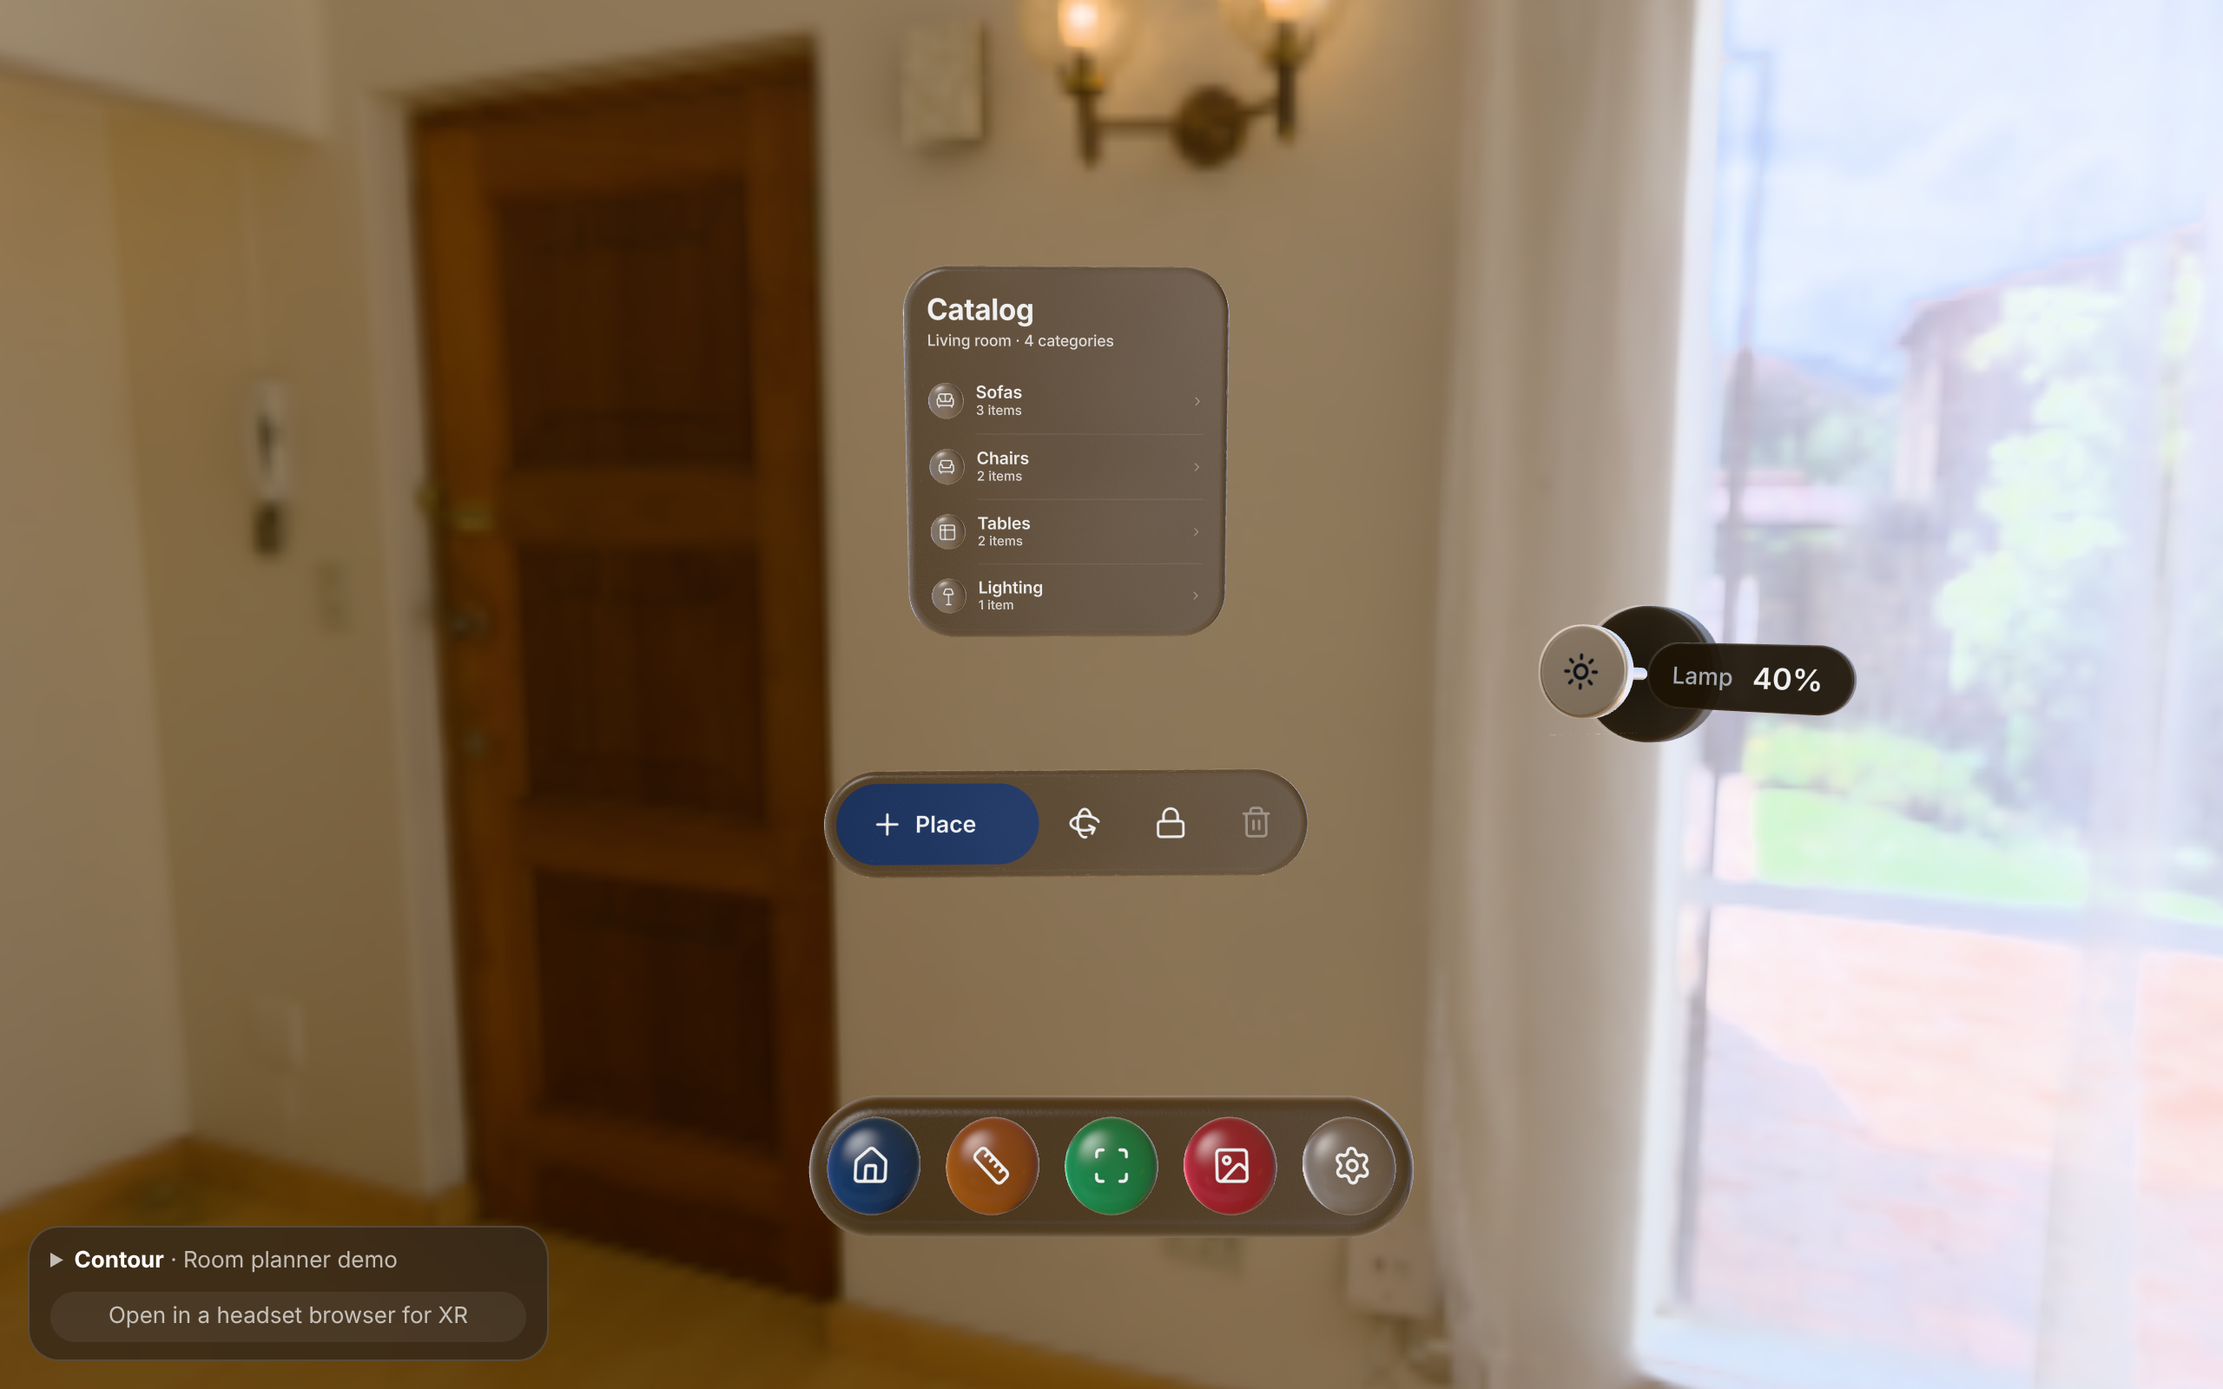
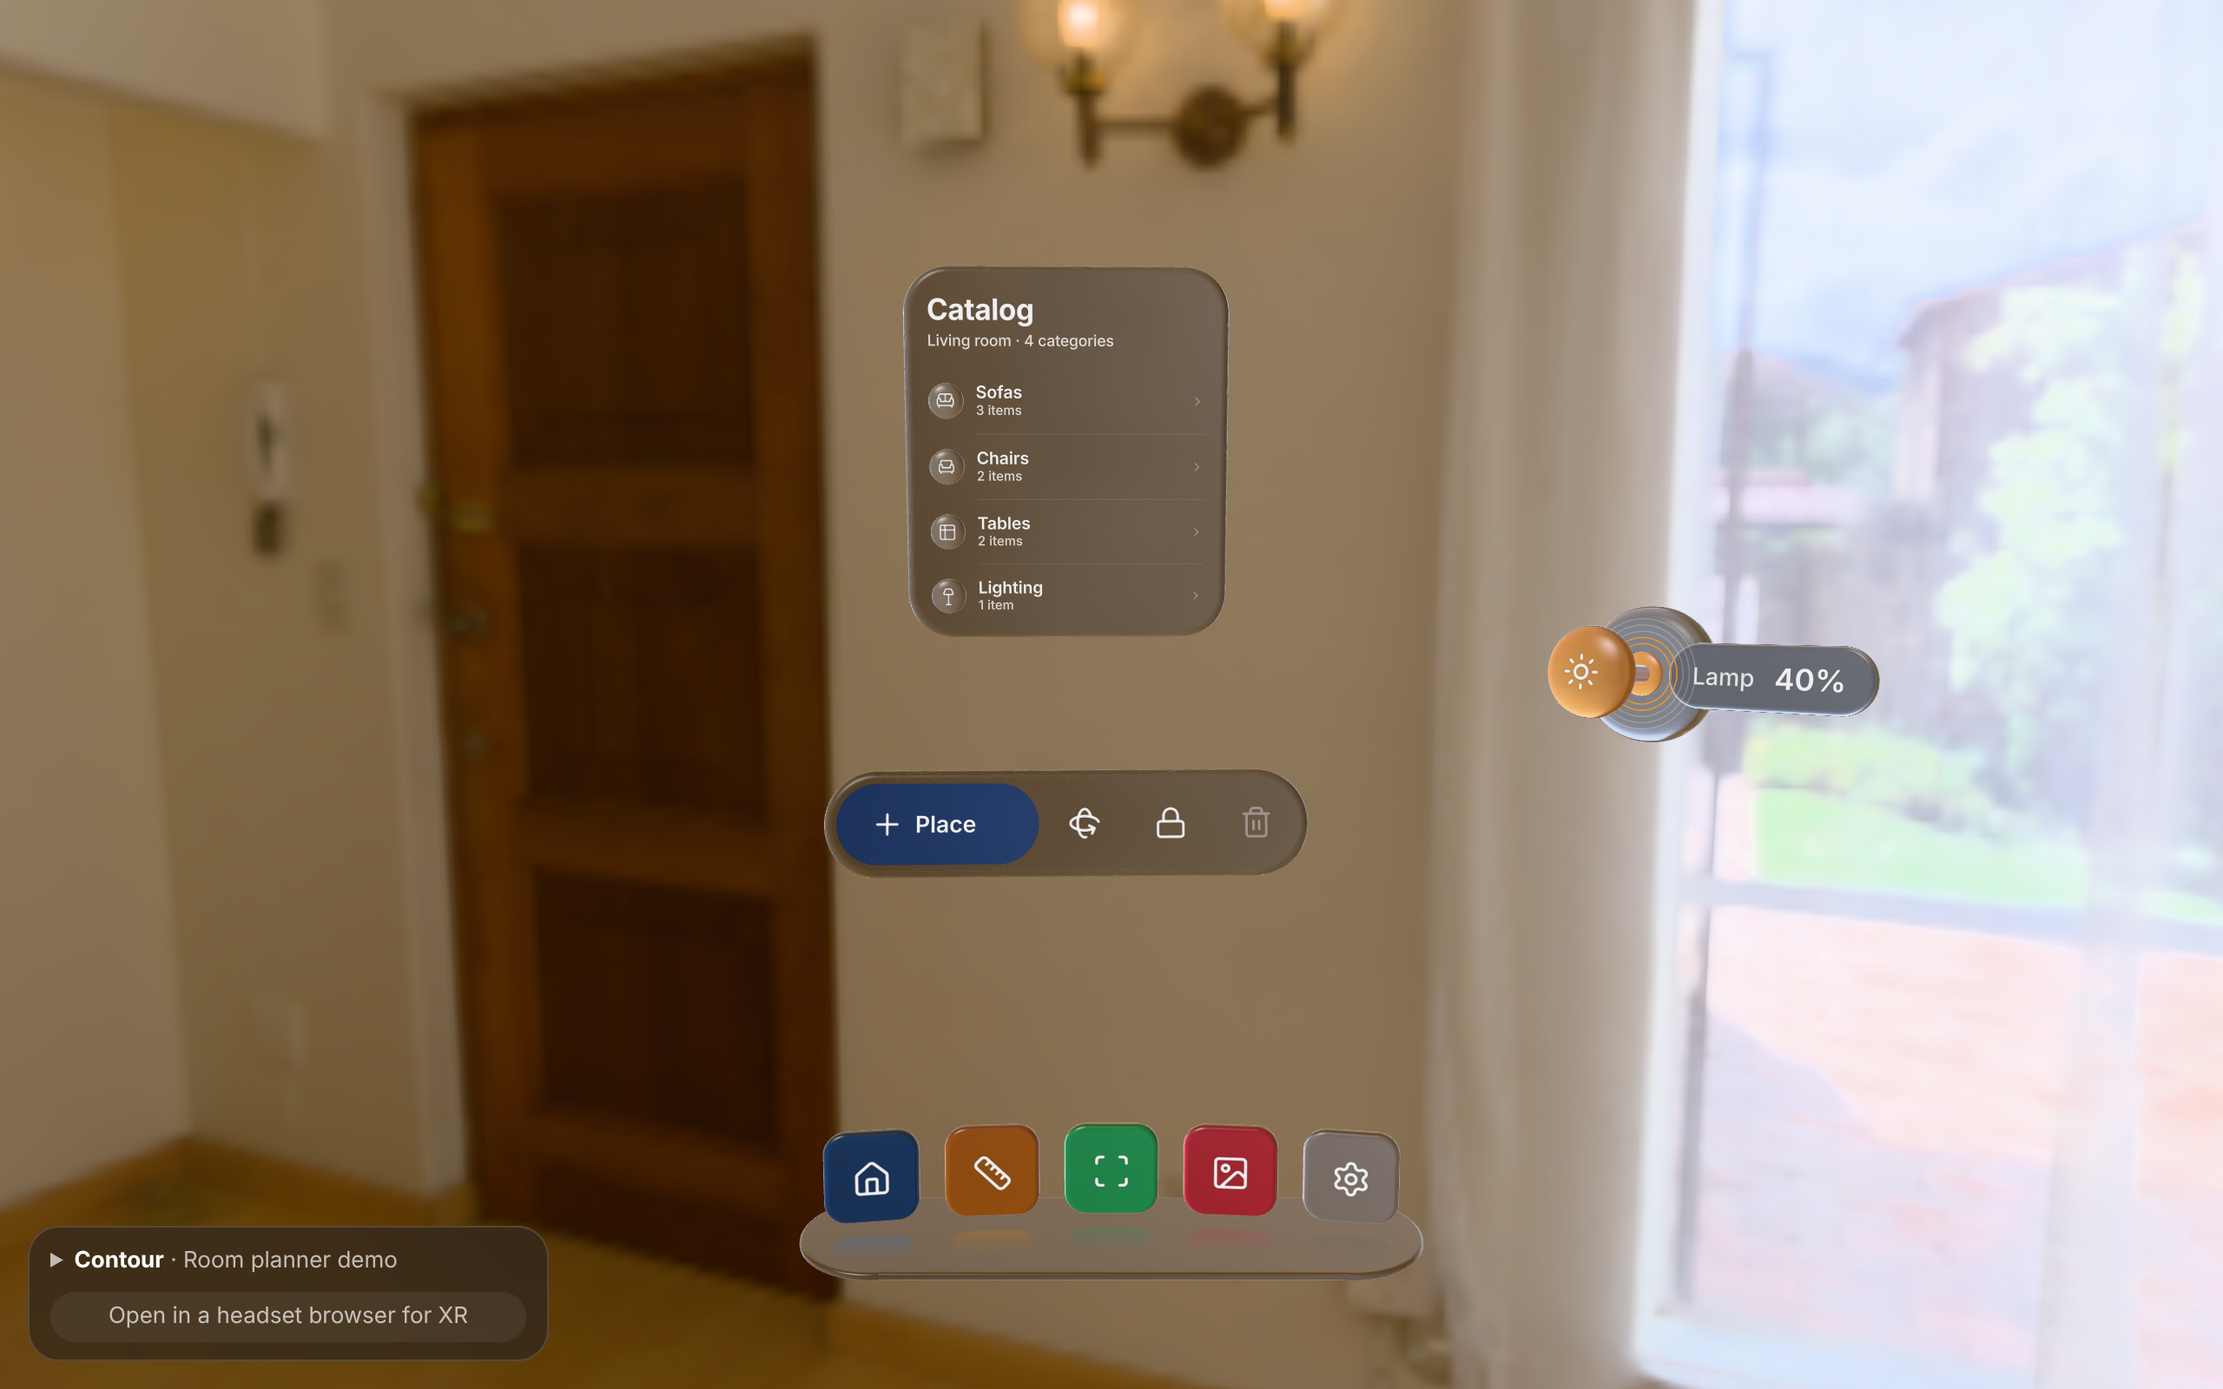
Z-Slider: amber glass stem and bead over etched detent rings, matched to lookdev A; docs reshot with the live Dock and Z-Slider
Claude-Session: https://claude.ai/code/session_01F2z6dGVrWdTUTwYeLec8bi

Changed region(s): [[0.3438, 0.7812, 0.6562, 0.9375], [0.6875, 0.4375, 0.8438, 0.5312]]

diff --git a/src/components/ZSlider.js b/src/components/ZSlider.js
@@ -10,6 +10,11 @@
 //   pinch  near the knob grabs it, so it can be pulled back too
 //   ray    press on the knob and drag: moving the pointer away pushes
 //
+// Look (Jihoon picked direction A, 2026-10-20; lookdev/dock_slider.py --part
+// slider --option stem): an amber glass bead on a glass stem that rises
+// from a flared foot in a round glass plate. Five etched detent rings on the
+// plate light up lamp amber up to the value.
+//
 // Tokens used: zslider.travel, feedback.detent.*, feedback.shadow.press.*,
 // size.button.default, material.t.*, proximity.hover.*, feedback.glow.edge,
 // motion.hover.in.*, surface.*
@@ -18,7 +23,7 @@ import { Interactable, markComponent } from '../core/Interactable.js';
 import { Hysteresis } from '../core/Hysteresis.js';
 import { cubicBezier, clamp } from '../core/easing.js';
 import { DEFAULTS } from '../core/defaults.js';
-import { bodyGeometry, bodyMaterial, faceMaterial, flatMaterial, makeText, makeIcon, softTexture } from '../core/look.js';
+import { bodyGeometry, bodyMaterial, faceMaterial, flatMaterial, makeText, makeIcon, softTexture, glassMaterial, glassSlabGeometry, glassBeadGeometry, setTint } from '../core/look.js';
 import { detentIndex, shadowAt } from '../core/detent.js';
 import { playTick } from '../core/audio.js';
 
@@ -50,76 +55,83 @@ export class ZSlider extends Interactable {
     this.side = side;
     this.t = t;
 
-    // Plate: a round socket the knob is pushed into.
+    // Plate: a round disc of window glass the stem rises out of.
     const plateD = side * 1.55;
-    const plate = new THREE.Mesh(bodyGeometry(plateD, plateD, plateT, plateD / 2), bodyMaterial(T, { color: C.window }));
+    const plate = new THREE.Mesh(glassSlabGeometry(plateD, plateD, plateT, plateD / 2 * 0.98), glassMaterial(T, { w: plateD, h: plateD, t: plateT }));
     plate.position.z = -plateT;
+    plate.renderOrder = 1;
     this.add(plate);
-    const plateFx = new THREE.Mesh(new THREE.PlaneGeometry(plateD, plateD), faceMaterial(T, { w: plateD, h: plateD, r: plateD / 2, distance }));
-    plateFx.position.z = 0.0002;
-    this.add(plateFx);
+    const amber = m => { setTint(m, { hw: 1, hh: 1, r: 0, albedo: DEFAULTS.color.lampGlass, amount: 1 }); return m; };
 
     // Contact shadow on the plate, under the knob.
     this.shadow = new THREE.Mesh(new THREE.PlaneGeometry(side * 1.15, side * 1.15), flatMaterial(C.shadow, this.shadowMin, { map: softTexture() }));
     this.shadow.position.z = 0.0004;
     this.add(this.shadow);
 
-    // Stem: joins the knob to the plate, like the stem of an air vent. It
-    // gets shorter as the knob is pushed in.
-    const stemR = side * 0.07;
-    this.stem = new THREE.Mesh(new THREE.CylinderGeometry(stemR, stemR, 1, 24), bodyMaterial(T, { color: C.metal, metal: true, opacity: 1 }));
-    this.stem.geometry.setAttribute('color', new THREE.BufferAttribute(new Float32Array(this.stem.geometry.attributes.position.count * 3).fill(0.8), 3));
-    this.stem.rotation.x = Math.PI / 2;
-    this.add(this.stem);
-
-    // Depth ruler under the knob: one dot per detent, so the push axis and
-    // the steps are visible (a depth cue, since people judge depth poorly).
-    const rulerY = -side / 2 - dmm(10);
-    const marks = Math.round(1 / this.interval);
-    const dotGeo = new THREE.CircleGeometry(dmm(1.6), 16);
-    for (let i = 0; i <= marks; i++) {
-      const major = i % 5 === 0;
-      const m = new THREE.Mesh(dotGeo, flatMaterial(0xffffff, major ? 0.75 : 0.35));
-      m.scale.setScalar(major ? 1.4 : 1);
-      m.rotation.x = -Math.PI / 2;
-      m.position.set(0, rulerY, this.travel * (1 - i * this.interval));
-      this.add(m);
+    // Detents: five etched rings on the plate (a 1/10 step is too fine to
+    // read at a glance); rings up to the value glow lamp amber.
+    this.rings = [];
+    const n = 5, ringW = dmm(0.9);
+    for (let i = 0; i < n; i++) {
+      const r = side * (0.34 + 0.07 * i);
+      const ring = new THREE.Mesh(new THREE.RingGeometry(r - ringW / 2, r + ringW / 2, 96), flatMaterial(0xffffff, 0.22));
+      ring.position.z = 0.0003;
+      ring.renderOrder = 2;
+      this.add(ring);
+      this.rings.push(ring);
     }
 
-    // Knob: a round metal puck with an icon.
+    // Stem: amber glass, rising from a flared foot; shorter as the knob goes in.
+    const stemR = side * 0.1;
+    this.stem = new THREE.Mesh(new THREE.CylinderGeometry(stemR, stemR, 1, 48), amber(glassMaterial(T, { w: stemR * 2, h: stemR * 2, t: stemR * 2, kind: 'bead' })));
+    this.stem.rotation.x = Math.PI / 2;
+    this.stem.renderOrder = 2;
+    this.add(this.stem);
+    const foot = new THREE.Mesh(glassBeadGeometry(side * 0.5, side * 0.07), amber(glassMaterial(T, { w: side * 0.5, h: side * 0.5, t: side * 0.07, kind: 'bead' })));
+    foot.renderOrder = 2;
+    this.add(foot);
+
+    // Knob: a low bead of amber glass with the icon on its crown.
     this.knob = new THREE.Group();
-    const knobBody = new THREE.Mesh(bodyGeometry(side, side, t, side / 2), bodyMaterial(T, { color: C.metal, metal: true, opacity: 1 }));
+    const knobH = side * 0.22;
+    const knobBody = new THREE.Mesh(glassBeadGeometry(side, knobH), amber(glassMaterial(T, { w: side, h: side, t: knobH, kind: 'bead' })));
+    knobBody.renderOrder = 3;
     this.knob.add(knobBody);
-    this.fx = new THREE.Mesh(new THREE.PlaneGeometry(side, side), faceMaterial(T, { w: side, h: side, r: side / 2, distance, rimStrength: 0.35 }));
-    this.fx.position.z = t + 0.0002;
-    this.fx.renderOrder = 2;
-    this.knob.add(this.fx);
+    this.knobSkin = knobBody.material;
+    this.knobSkin.uniforms.uSpotRadius.value = side * 0.6;
     if (o.icon) {
-      const icon = makeIcon(o.icon, side * 0.42, { color: 0x2a2c31 });
-      icon.position.z = t + 0.0004;
+      const icon = makeIcon(o.icon, side * 0.42);
+      icon.position.z = knobH + 0.0004;
+      icon.renderOrder = 4;
       this.knob.add(icon);
     }
     this.add(this.knob);
     this.hitMeshes.push(knobBody);
+    // The knob's thickness for input: its back face to its crown.
+    this.t = knobH;
 
     // Value bubble beside the knob, not on it, so the hand doesn't cover it.
     const bw = dmm(120), bh = dmm(40);
     this.bubble = new THREE.Group();
-    const bubbleBody = new THREE.Mesh(bodyGeometry(bw, bh, T.get('material.t.thin'), bh / 2), bodyMaterial(T, { color: C.window }));
+    const bubbleBody = new THREE.Mesh(glassSlabGeometry(bw, bh, T.get('material.t.thin'), bh / 2 * 0.98), glassMaterial(T, { w: bw, h: bh, t: T.get('material.t.thin'), kind: 'lens' }));
+    // Lens glass: darker than the window, so the value stays legible where
+    // the knob sits in front of a bright window.
+    bubbleBody.material.uniforms.uFade.value = 1;
+    // It carries the value, so it may darken further than surface.scrim.max
+    // over a bright window (proposed token: surface.scrim.label).
+    bubbleBody.material.uniforms.uScrimMax.value = 0.7;
+    bubbleBody.renderOrder = 1;
     this.bubble.add(bubbleBody);
-    const bubbleFx = new THREE.Mesh(new THREE.PlaneGeometry(bw, bh), faceMaterial(T, { w: bw, h: bh, r: bh / 2, distance }));
-    bubbleFx.position.z = T.get('material.t.thin') + 0.0002;
-    this.bubble.add(bubbleFx);
     const bz = T.get('material.t.thin') + 0.0004;
     if (o.label) {
-      const name = makeText(o.label, { size: dmm(14), weight: 500, anchorX: 'left', color: C.textSecondary });
+      const name = makeText(o.label, { size: dmm(14), weight: 500, anchorX: 'left', opacity: DEFAULTS.emphasis.secondary });
       name.position.set(-bw / 2 + dmm(16), 0, bz);
       this.bubble.add(name);
     }
     this.valueLabel = makeText('0%', { size: dmm(17), weight: 600, anchorX: 'right' });
     this.valueLabel.position.set(bw / 2 - dmm(16), 0, bz);
     this.bubble.add(this.valueLabel);
-    this.bubble.position.x = side / 2 + dmm(14) + bw / 2;
+    this.bubble.position.x = plateD / 2 + dmm(10) + bw / 2;  // beside the plate, clear of the rings
     this.add(this.bubble);
 
     this.knobZ = this.travel; // back face of the knob
@@ -215,6 +227,14 @@ export class ZSlider extends Interactable {
     const hovered = this.hoverBand.update(hoverD) || engaged;
     this.engaged = engaged;
     this.hoverT = clamp(this.hoverT + (hovered ? 1 : -1) * dt / this.hoverIn, 0, 1);
-    this.fx.material.uniforms.uHover.value = this.hoverEase(this.hoverT) * (engaged ? 1 : 0.7);
+    const h = this.hoverEase(this.hoverT) * (engaged ? 1 : 0.7);
+    this.knobSkin.uniforms.uHover.value = h * 6;
+    this.knob.scale.setScalar(1 + 0.06 * h);  // swells a little toward you, like a bubble
+    const lit = Math.round(push * this.rings.length);
+    this.rings.forEach((r, i) => {
+      const on = i < lit;
+      r.material.color.set(on ? C.lampLit : 0xffffff);
+      r.material.opacity = r.material.userData.baseOpacity = on ? 0.95 : 0.22;
+    });
   }
 }

diff --git a/src/core/defaults.js b/src/core/defaults.js
@@ -129,6 +129,8 @@ export const DEFAULTS = {
     controlHover: 0x5a5c63,
     row: 0x5a5c63, // list row hover fill
     accent: 0x2f7cf6, // primary actions
+    lampGlass: [1.3, 0.55, 0.14], // linear transmission of the Z-Slider's amber glass (lamp colour)
+    lampLit: 0xffa040, // lit detent rings, up to the value
     accentGlass: [0.22, 0.5, 1.7], // linear transmission of accent-tinted glass (primary buttons): the room shows through it blue; the scrim caps its brightness for white text
     metal: 0xc9ccd2, // Z-Slider knob
     plate: 0x34363c,

diff --git a/docs/components.md b/docs/components.md
@@ -3,7 +3,7 @@
 Four three.js + WebXR components built on the tokens: **Button**, **Z-Slider**, **Packaging panel** and **Dock**. They don't hold any numbers of their own: every size, timing and ratio is read from [`tokens.json`](../tokens.json), so changing a token changes every component that uses it. The few values the tokens don't cover yet are collected in one file, listed [below](#values-the-tokens-dont-cover-yet).
 
 ![The demo scene: Catalog window, bubble toolbar with the tinted-glass Place button, Lamp Z-Slider and Dock](images/components-overview.png)
-*Captured 2026-10-20 from the demo, 2560 × 1600.* The Dock and Z-Slider in this shot are the old live versions and are **in progress**: their new designs are in lookdev (see [Dock](#dock) and [Z-Slider](#z-slider)).
+*Captured 2026-10-20 from the demo, 2560 × 1600.* The Dock (curved glass shelf) and Z-Slider (amber glass stem) are the first live builds of their lookdev and are **in progress**: see [Dock](#dock) and [Z-Slider](#z-slider).
 
 ## Run the demo
 
@@ -19,7 +19,7 @@ Other commands: `npm test` (token check + interaction logic tests), `npm run sho
 
 ## How it looks
 
-Behaviour comes from tokens; appearance lives in [`src/core/look.js`](../src/core/look.js). The bar is a shipping visionOS app. The Catalog window has been rebuilt to [the Catalog spec](catalog-spec.md); the toolbar, Z-Slider and Dock still use the round-1 look and come next.
+Behaviour comes from tokens; appearance lives in [`src/core/look.js`](../src/core/look.js). The bar is a shipping visionOS app. The Catalog window has been rebuilt to [the Catalog spec](catalog-spec.md); the toolbar, Z-Slider and Dock now use the same glass (2026-10-20).
 
 - **Glass windows.** A window is a thick glass slab with a fully rounded rim. It shows the room behind it frosted and darkened, refracts it at the rim, reflects the room in front (strongest at the rim), and has a fine frost grain. It reads the room from the backdrop's light map along the view ray, so it works per eye in a headset with no extra render pass.
 - **Adaptive scrim.** Over a bright part of the room the glass darkens just enough to keep white text legible, up to `surface.scrim.max`.
@@ -82,9 +82,9 @@ A knob you push away from you (value up) and pull back (value down), along Z ins
 | Hover, glow, surface | as Button |
 
 ![Z-Slider lookdev, direction A: an amber glass bead on a glass stem over five etched detents, two lit at 40%](images/lookdev/slider-stem.jpg)
-*Rendered 2026-10-20 in Blender.* **In progress:** Jihoon picked this direction (A, stem) on 2026-10-20; the live knob in the demo is still the old one.
+*Rendered 2026-10-20 in Blender.* **In progress:** Jihoon picked this direction (A, stem) on 2026-10-20. The live knob (see the overview) is built to it: an amber glass bead on an amber stem from a flared foot, five etched rings that light amber up to the value, and the value label on lens glass beside the plate. Its glass still reads more opaque than the render.
 
-How each input moves it: a fingertip can only **push** the face (like a real knob). **Pinching** near the knob grabs it so it can be pulled back. A **ray** (mouse, controller) drags it: moving the pointer further away pushes. The value is shown beside the knob, not on it, so the hand doesn't cover it. A depth ruler under the knob shows the 10 steps. Events: `change`, `detent`.
+How each input moves it: a fingertip can only **push** the face (like a real knob). **Pinching** near the knob grabs it so it can be pulled back. A **ray** (mouse, controller) drags it: moving the pointer further away pushes. The value is shown beside the knob, not on it, so the hand doesn't cover it. Five rings on the plate show the value at a glance (each is two detents); the 10 detents are felt as ticks. Events: `change`, `detent`.
 
 ## Packaging panel
 
@@ -121,7 +121,7 @@ An ornament of actions under a window: one glass bar whose buttons are places wh
 The app launcher, body-locked 25° below your view.
 
 ![Dock lookdev: a curved glass shelf with icons floating above it, Scan magnified](images/dock-magnify.png)
-*Rendered 2026-10-20 in Blender (`lookdev/dock_slider.py --part dock --option shelf --state hover`), 2560 × 1600.* **In progress:** this is the lookdev target, not the live component yet; the hand is not modelled in the render, and the shown state is the magnification a nearby hand triggers. The live Dock in the demo is still the first-pass bead dock.
+*Rendered 2026-10-20 in Blender (`lookdev/dock_slider.py --part dock --option shelf --state hover`), 2560 × 1600.* **In progress:** this is the lookdev target. The live Dock (built 2026-10-20, see the overview) follows it: tinted glass tiles floating over a smoky glass shelf on an arc centred on you, reflections as soft colour in the glass. The hand is not modelled in the render; the shown state is the magnification a nearby hand triggers.
 
 | Behaviour | Tokens |
 |---|---|
@@ -191,8 +191,8 @@ These live in [`src/core/defaults.js`](../src/core/defaults.js), one file, so th
 - **Trade-offs:** Tinted glass changes with the room behind it; over a saturated room the hue shifts. Unsaturated colours (Settings' grey) use the plain window glass.
 
 ### Known gaps handed to the arena (2026-10-20)
-- **Dock:** tinted glass beads on a glass shelf are a first pass. Seen from above, the domes read as candy marbles; it needs Blender lookdev like the bubble had.
-- **Z-Slider:** still the old opaque knob. Proposed: a glass bead in a shallow well in the glass, sinking deeper as the value rises, with a light ring per detent.
+- **Dock:** built live as the curved shelf (Jihoon's Snow Leopard direction). Reflections are colour decals, not a real mirror; tiles are a little thick.
+- **Z-Slider:** built live as direction A (stem). The amber glass reads more opaque and pastel than the lookdev; the value label needs a scrim beyond `surface.scrim.max` over bright windows (proposed `surface.scrim.label`).
 - **Backdrop:** the room photo is 1K; renders at 6K show it soft. A 4K+ file is needed (Poly Haven is blocked from the cloud).
 
 ### Bubble: the hover and press language (locked 2026-10-20)
